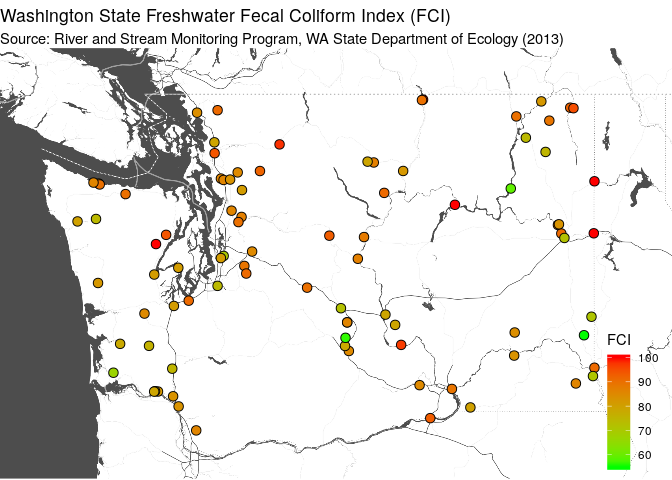
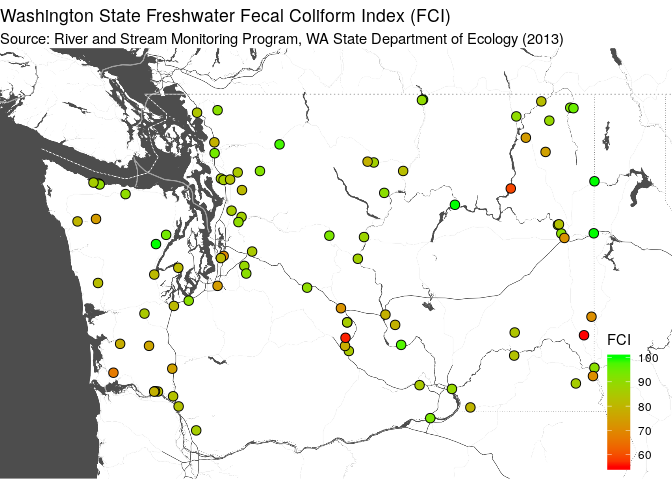
Reversed the colors, since lower values should be red not green.

diff --git a/demos/data_import/wa_wqi/get_wa_wqi.md b/demos/data_import/wa_wqi/get_wa_wqi.md
@@ -233,7 +233,7 @@ Add points, a legend, and a title to the map.
 ```r
 g <- g + geom_point(aes(x = lon, y = lat, fill = WQIFC), 
                data = wa_wqi, pch = 21, size = 3) + 
-  scale_fill_gradient(name = "FCI", low = "green", high = "red") + 
+  scale_fill_gradient(name = "FCI", low = "red", high = "green") + 
   ggtitle(label = paste("Washington State", 
                         "Freshwater Fecal Coliform Index (FCI)", sep = " "),
           subtitle = paste("Source: River and Stream Monitoring Program,", 
